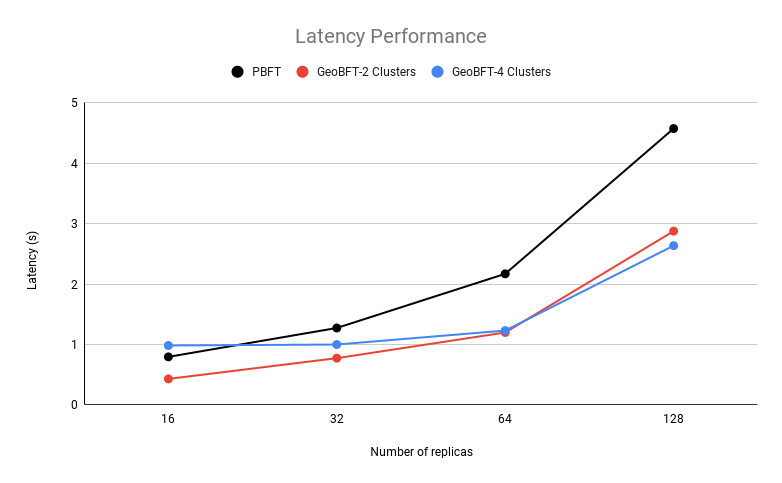
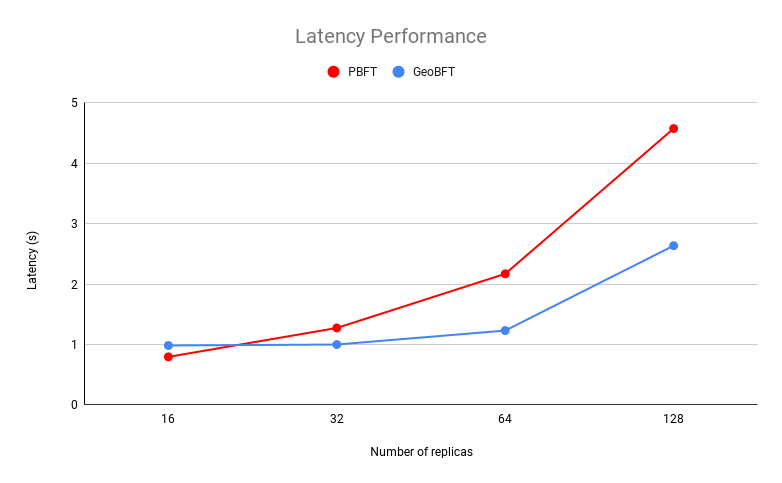
update latency graph

diff --git a/_posts/2023-03-07-GeoBFT.md b/_posts/2023-03-07-GeoBFT.md
@@ -330,7 +330,7 @@ Nexres ran on Ubuntu, 20.04 LTS, amd64 focal image build on 2022-09-14.
 
 The first experiment is designed to test the maximum throughput and latency of GeoBFT and compare the result with PBFT performance under the same configuration. The throughput and latency of PBFT and GeoBFT with 4 clusters with different numbers of replicas are recorded. The replica number is set to 16, 32, 64, and 128.
 
-From the figure below, we can see that as the system scales, the throughput decreases and the latency increases for both PBFT and GeoBFT. With respect to throughput, GeoBFT outperforms PBFT at all replica settings. In the second graph, the average latency of GeoBFT is smaller than PBFT at all replica settings, and it is almost half of PBFT latency at the 128-replica setting.
+From the figure below, we can see that as the system scales, the throughput decreases and the latency increases for both PBFT and GeoBFT. With respect to throughput, GeoBFT outperforms PBFT at all replica settings. In general, the average latency of GeoBFT is smaller than PBFT at all replica settings except for the 16-replica setting, and it is almost half of PBFT latency at the 128-replica setting.
 
 <p>
     <img src="{{ site.baseurl }}/assets/images/GeoBFT/Throughput Performance.png" alt="Cover photo" style="width: 80%"/>
